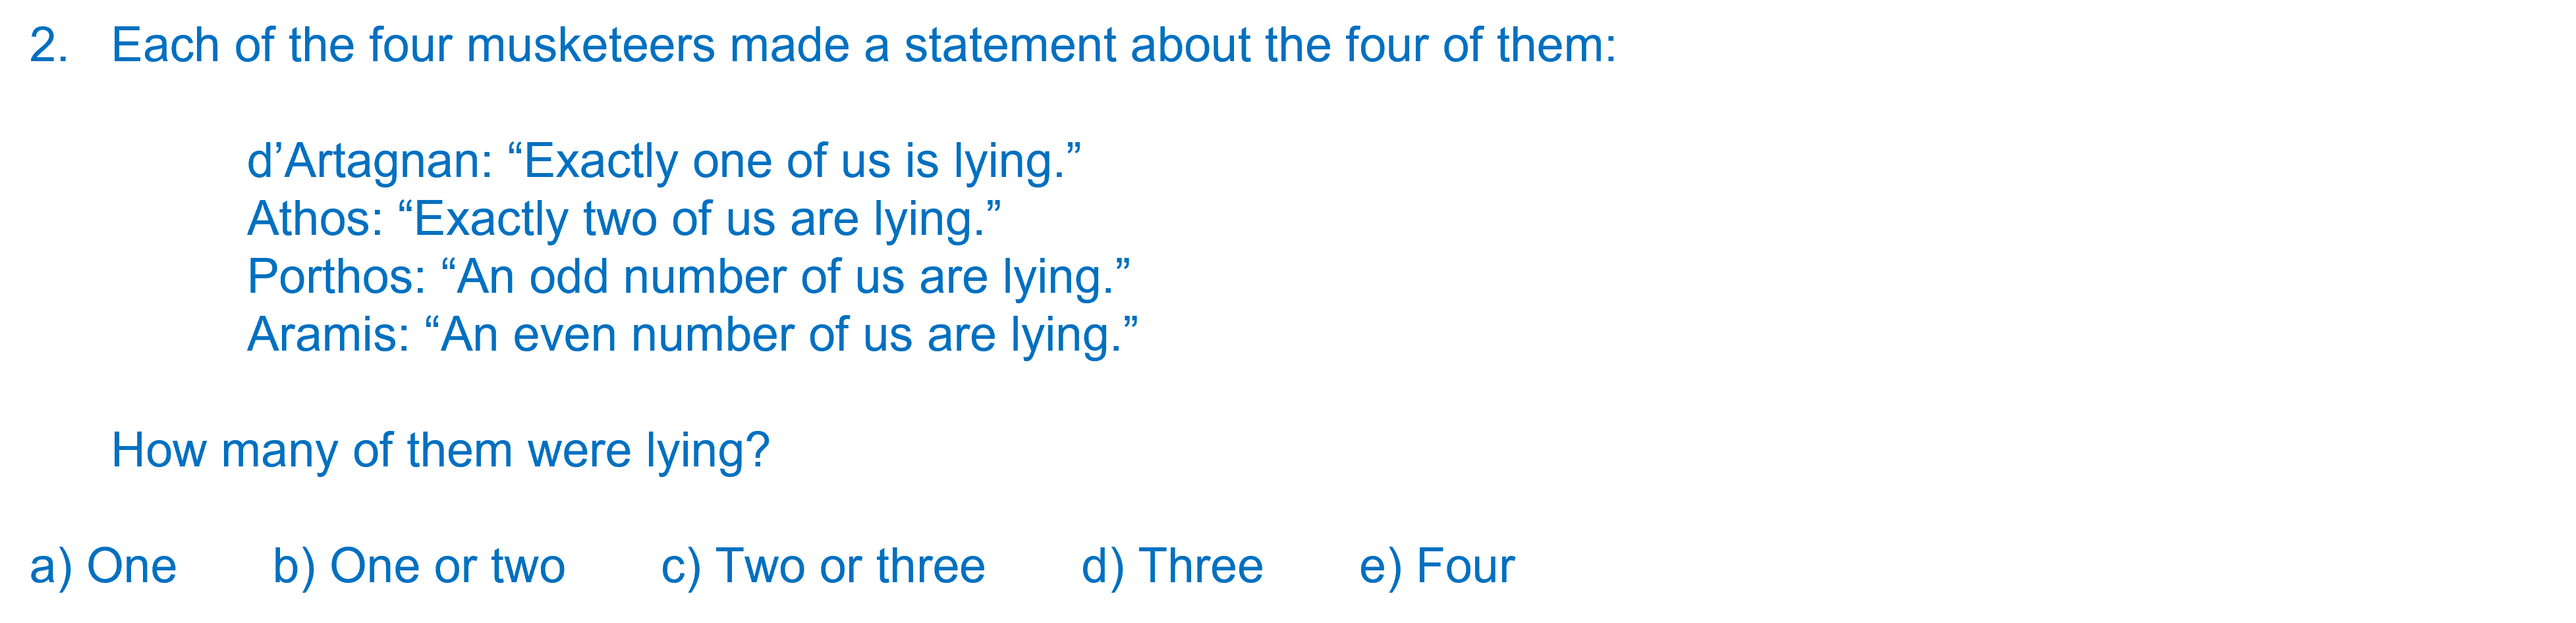
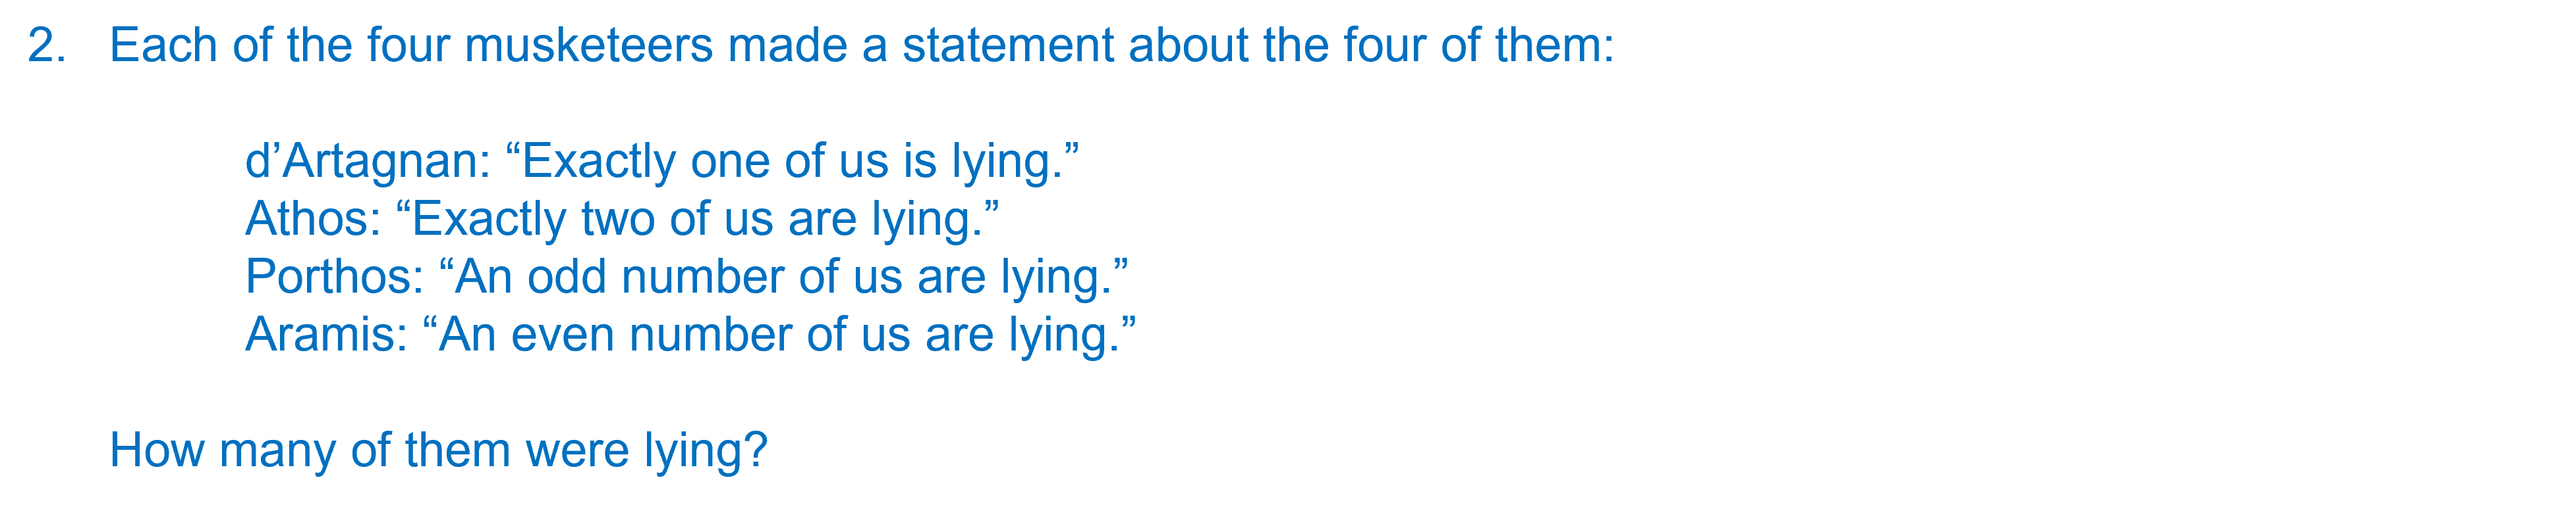
Updating homeworks
Including fixing new window link in privacy notice

diff --git a/pages/academy-9aut-week-1.md b/pages/academy-9aut-week-1.md
@@ -19,7 +19,7 @@ We will also be running a weekly homework review session (look out for our email
 ## 1.	
 ![](/resources/academy-9aut-week-1/q1.png){image align="center"}  
 
-::: problem id=1_1 marks=2
+::: problem id=1_1 marks=1
 a) <input type="number" solution="11"/>  
  
 ---
@@ -27,7 +27,7 @@ a) <input type="number" solution="11"/>
 ![](/resources/academy-9aut-week-1/s1a.png){image align="center"}
 :::  
 
-::: problem id=1_2 marks=2
+::: problem id=1_2 marks=1
 b) <input type="number" solution="27"/>  
  
 ---
@@ -35,7 +35,7 @@ b) <input type="number" solution="27"/>
 ![](/resources/academy-9aut-week-1/s1b.png){image align="center"}
 :::  
 
-::: problem id=1_3 marks=2
+::: problem id=1_3 marks=1
 c) <input type="number" solution="6"/>  
  
 ---
@@ -43,7 +43,7 @@ c) <input type="number" solution="6"/>
 ![](/resources/academy-9aut-week-1/s1c.png){image align="center"}
 :::  
 
-::: problem id=1_4 marks=2
+::: problem id=1_4 marks=1
 d) <input type="number" solution="20"/>  
  
 ---
@@ -55,8 +55,8 @@ d) <input type="number" solution="20"/>
 ## 2.
 ![](/resources/academy-9aut-week-1/q2.png){image align="center"}  
 
-::: problem id=2_1 marks=2
-i) 
+::: problem id=2_1 marks=1
+![](/resources/academy-9aut-week-1/q2a.png){image align="center"}  
 * [ ] a)
 * [ ] b)
 * [x] c)
@@ -65,11 +65,11 @@ i)
 
 ---
 
-![](/resources/academy-9aut-week-1/s2i.png){image align="center"}
+![](/resources/academy-9aut-week-1/s2a.png){image align="center"}
 :::  
 
-::: problem id=2_2 marks=2
-ii) 
+::: problem id=2_2 marks=1
+![](/resources/academy-9aut-week-1/q2b.png){image align="center"}  
 * [x] a)
 * [ ] b)
 * [ ] c)
@@ -78,11 +78,11 @@ ii)
 
 ---
 
-![](/resources/academy-9aut-week-1/s2ii.png){image align="center"}
+![](/resources/academy-9aut-week-1/s2b.png){image align="center"}
 :::  
 
-::: problem id=2_3 marks=2
-iii) 
+::: problem id=2_3 marks=1
+![](/resources/academy-9aut-week-1/q2c.png){image align="center"}  
 * [ ] a)
 * [x] b)
 * [ ] c)
@@ -91,11 +91,11 @@ iii)
 
 ---
 
-![](/resources/academy-9aut-week-1/s2iii.png){image align="center"}
+![](/resources/academy-9aut-week-1/s2c.png){image align="center"}
 :::  
 
-::: problem id=2_4 marks=2
-iv) 
+::: problem id=2_4 marks=1
+![](/resources/academy-9aut-week-1/q2d.png){image align="center"}  
 * [ ] a)
 * [ ] b)
 * [ ] c)
@@ -104,7 +104,7 @@ iv)
 
 ---
 
-![](/resources/academy-9aut-week-1/s2iv.png){image align="center"}
+![](/resources/academy-9aut-week-1/s2d.png){image align="center"}
 :::  
 
 

diff --git a/pages/privacy-notice.md b/pages/privacy-notice.md
@@ -4,7 +4,7 @@
 
 **Effective Date:** 31 August 2025.
 
-This Notice is informed by [Good Thinking’s Data Protection Policy](https://docs.google.com/document/d/1gAvFujgwwU4bdPycxBiqJ3WK8UULyy7t/edit?usp=sharing&ouid=104525238127026012930&rtpof=true&sd=true).
+This Notice is informed by [Good Thinking’s Data Protection Policy](https://docs.google.com/document/d/1gAvFujgwwU4bdPycxBiqJ3WK8UULyy7t/edit?usp=sharing&ouid=104525238127026012930&rtpof=true&sd=true){target="_blank"}.
 
 
 ## 1. Purpose of This Notice
@@ -86,4 +86,4 @@ We take appropriate technical and organisational measures to protect personal da
 
 
 ## 10. Complaints
-If you have concerns about how we use your child’s data, please contact us first. You also have the right to lodge a complaint with the **Information Commissioner’s Office (ICO)**: [https://ico.org.uk](https://ico.org.uk)
+If you have concerns about how we use your child’s data, please contact us first. You also have the right to lodge a complaint with the **Information Commissioner’s Office (ICO)**: [https://ico.org.uk](https://ico.org.uk){target="_blank"}.

diff --git a/pages/academy-9aut-week-2.md b/pages/academy-9aut-week-2.md
@@ -17,10 +17,9 @@ We will also be running a weekly homework review session (look out for our email
 **After you click Submit, make sure you scroll down to see the correct answers and read the full written solutions.**  
 
 ## 1.	
-![](/resources/academy-9aut-week-2/q1.png){image align="center"}  
 
-::: problem id=1_1 marks=2
-a) 
+::: problem id=1_1 marks=1
+![](/resources/academy-9aut-week-2/q1a.png){image align="center"}  
 
 * [ ] Rowan
 * [x] Rachel
@@ -32,8 +31,8 @@ a)
 ![](/resources/academy-9aut-week-2/s1a.png){image align="center"}
 :::  
 
-::: problem id=1_2 marks=2
-b) 
+::: problem id=1_2 marks=1
+![](/resources/academy-9aut-week-2/q1b.png){image align="center"}  
 
 * [x] Yes
 * [ ] No
